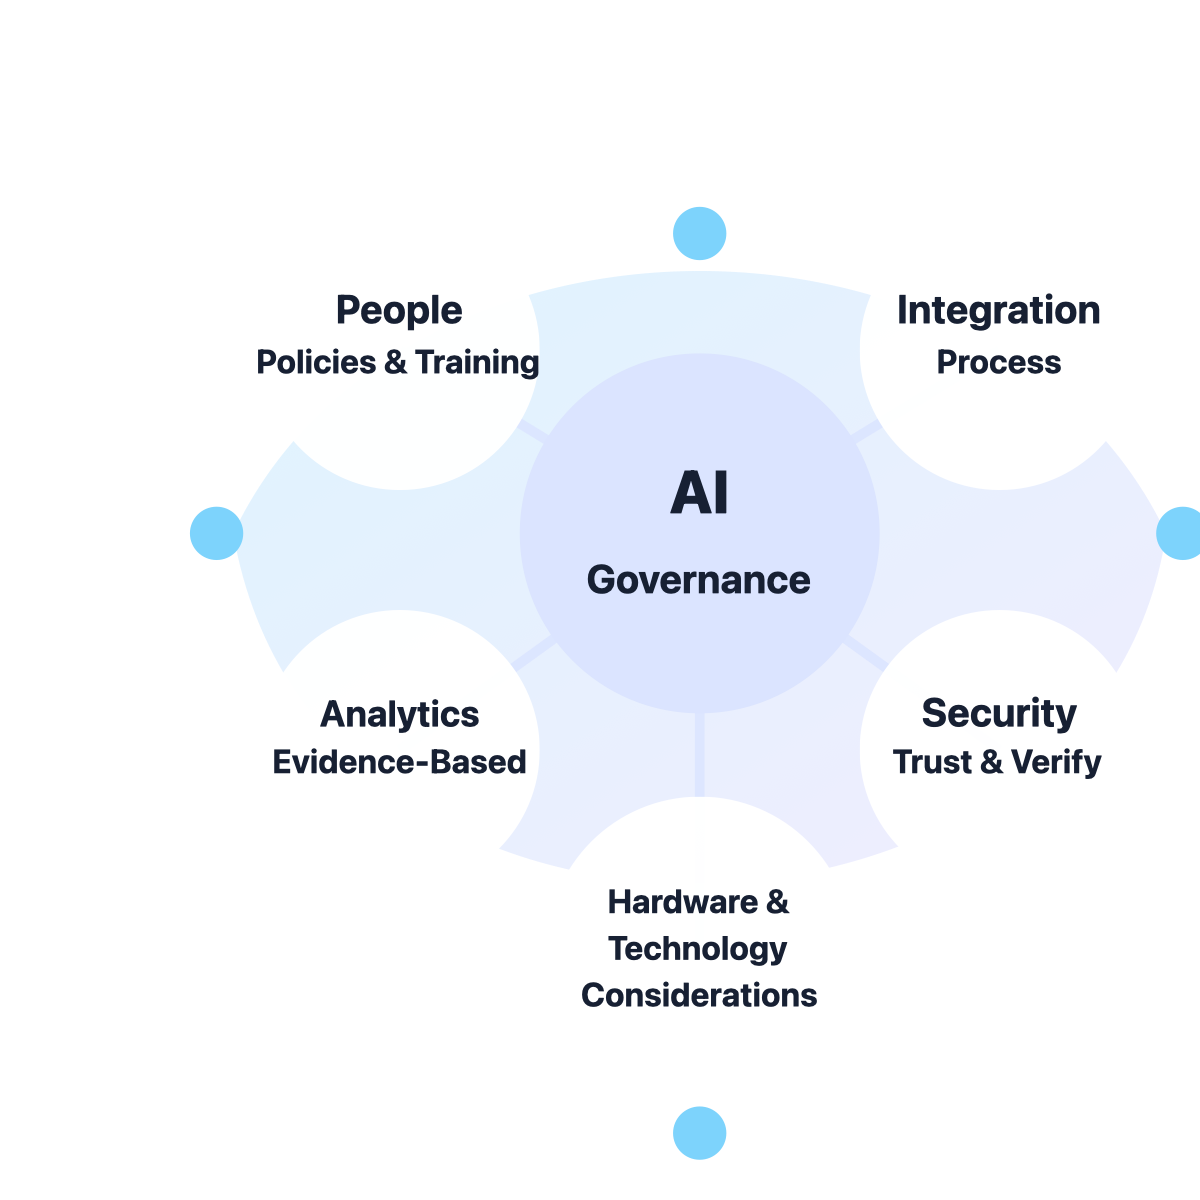
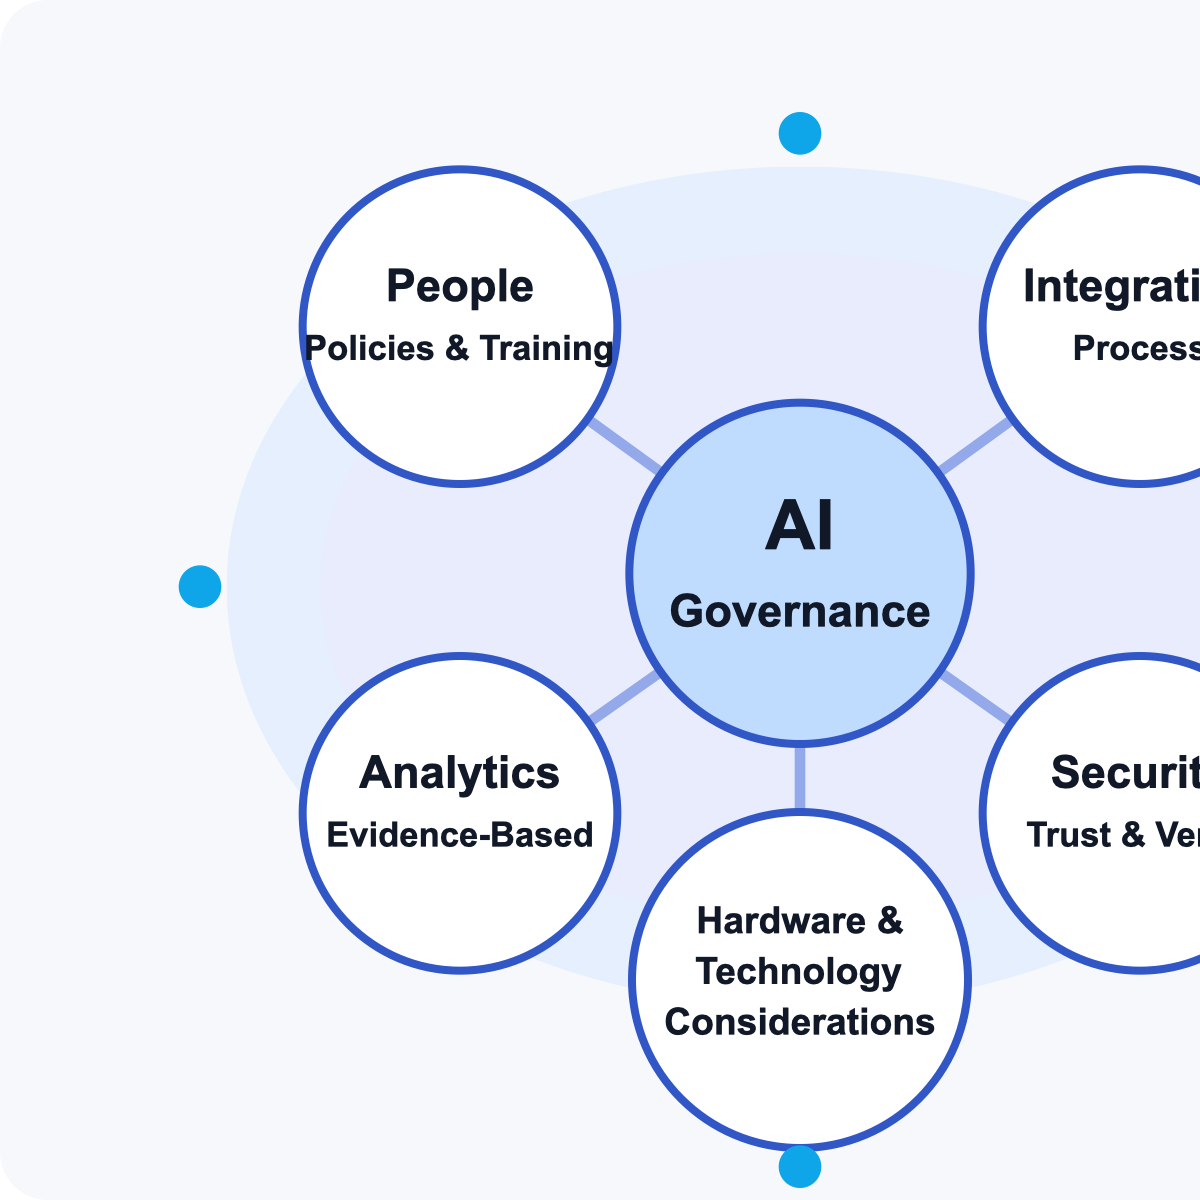
Replace lab graphic with high-contrast version

diff --git a/index.html b/index.html
@@ -54,16 +54,52 @@
         </div>
       </div>
       <div class="hero-art" aria-label="Illustration of people, work, and AI governance connected in a workflow">
-        <svg viewBox="0 0 420 360" role="img" width="100%" height="auto">
-          <defs>
-            <linearGradient id="g" x1="0" y1="0" x2="1" y2="1"><stop stop-color="#7dd3fc"/><stop offset="1" stop-color="#c4b5fd"/></linearGradient>
-          </defs>
-          <path d="M70 160 C120 55, 300 55, 350 160 C330 295, 95 305, 70 160Z" fill="url(#g)" opacity=".25"/>
-          <line class="line" x1="120" y1="105" x2="210" y2="160"/><line class="line" x1="300" y1="105" x2="210" y2="160"/><line class="line" x1="120" y1="225" x2="210" y2="160"/><line class="line" x1="300" y1="225" x2="210" y2="160"/><line class="line" x1="210" y1="285" x2="210" y2="160"/>
-          <circle class="node" cx="120" cy="105" r="42"/><circle class="node" cx="300" cy="105" r="42"/><circle class="node" cx="120" cy="225" r="42"/><circle class="node" cx="300" cy="225" r="42"/><circle class="node" cx="210" cy="285" r="46"/><circle class="node2" cx="210" cy="160" r="54"/>
-          <text x="210" y="154" text-anchor="middle" font-size="18" font-weight="800" fill="#172033">AI</text><text x="210" y="178" text-anchor="middle" font-size="12" font-weight="700" fill="#172033">Governance</text>
-          <text x="120" y="97" text-anchor="middle" font-size="12" font-weight="700" fill="#172033">People</text><text x="120" y="112" text-anchor="middle" font-size="10" font-weight="700" fill="#172033">Policies &amp; Training</text><text x="300" y="97" text-anchor="middle" font-size="12" font-weight="700" fill="#172033">Integration</text><text x="300" y="112" text-anchor="middle" font-size="10" font-weight="700" fill="#172033">Process</text><text x="120" y="218" text-anchor="middle" font-size="11" font-weight="700" fill="#172033">Analytics</text><text x="120" y="232" text-anchor="middle" font-size="10" font-weight="700" fill="#172033">Evidence-Based</text><text x="300" y="218" text-anchor="middle" font-size="12" font-weight="700" fill="#172033">Security</text><text x="300" y="232" text-anchor="middle" font-size="10" font-weight="700" fill="#172033">Trust &amp; Verify</text><text x="210" y="274" text-anchor="middle" font-size="10" font-weight="700" fill="#172033">Hardware &amp;</text><text x="210" y="288" text-anchor="middle" font-size="10" font-weight="700" fill="#172033">Technology</text><text x="210" y="302" text-anchor="middle" font-size="10" font-weight="700" fill="#172033">Considerations</text>
-          <circle class="accent" cx="210" cy="70" r="8"/><circle class="accent" cx="355" cy="160" r="8"/><circle class="accent" cx="210" cy="340" r="8"/><circle class="accent" cx="65" cy="160" r="8"/>
+        <svg viewBox="0 0 1200 900" role="img" width="100%" height="auto">
+          <rect width="1200" height="900" rx="36" fill="#f7f8fb"/>
+          <ellipse cx="600" cy="440" rx="430" ry="315" fill="#dbeafe" opacity="0.65"/>
+          <ellipse cx="600" cy="440" rx="360" ry="250" fill="#ede9fe" opacity="0.55"/>
+        
+          <g stroke="#8aa2e8" stroke-width="8" stroke-linecap="round" opacity="0.9">
+            <line x1="345" y1="245" x2="600" y2="430"/>
+            <line x1="855" y1="245" x2="600" y2="430"/>
+            <line x1="345" y1="610" x2="600" y2="430"/>
+            <line x1="855" y1="610" x2="600" y2="430"/>
+            <line x1="600" y1="735" x2="600" y2="430"/>
+          </g>
+        
+          <g font-family="Arial, Helvetica, sans-serif" text-anchor="middle" fill="#111827">
+            <circle cx="600" cy="430" r="128" fill="#bfdbfe" stroke="#3157c7" stroke-width="6"/>
+            <text x="600" y="412" font-size="52" font-weight="800">AI</text>
+            <text x="600" y="470" font-size="34" font-weight="800">Governance</text>
+        
+            <circle cx="345" cy="245" r="118" fill="#ffffff" stroke="#3157c7" stroke-width="6"/>
+            <text x="345" y="226" font-size="34" font-weight="800">People</text>
+            <text x="345" y="270" font-size="26" font-weight="800">Policies &amp; Training</text>
+        
+            <circle cx="855" cy="245" r="118" fill="#ffffff" stroke="#3157c7" stroke-width="6"/>
+            <text x="855" y="226" font-size="34" font-weight="800">Integration</text>
+            <text x="855" y="270" font-size="26" font-weight="800">Process</text>
+        
+            <circle cx="345" cy="610" r="118" fill="#ffffff" stroke="#3157c7" stroke-width="6"/>
+            <text x="345" y="591" font-size="34" font-weight="800">Analytics</text>
+            <text x="345" y="635" font-size="26" font-weight="800">Evidence-Based</text>
+        
+            <circle cx="855" cy="610" r="118" fill="#ffffff" stroke="#3157c7" stroke-width="6"/>
+            <text x="855" y="591" font-size="34" font-weight="800">Security</text>
+            <text x="855" y="635" font-size="26" font-weight="800">Trust &amp; Verify</text>
+        
+            <circle cx="600" cy="735" r="126" fill="#ffffff" stroke="#3157c7" stroke-width="6"/>
+            <text x="600" y="700" font-size="28" font-weight="800">Hardware &amp;</text>
+            <text x="600" y="738" font-size="28" font-weight="800">Technology</text>
+            <text x="600" y="776" font-size="28" font-weight="800">Considerations</text>
+          </g>
+        
+          <g fill="#0ea5e9">
+            <circle cx="600" cy="100" r="16"/>
+            <circle cx="1050" cy="440" r="16"/>
+            <circle cx="600" cy="875" r="16"/>
+            <circle cx="150" cy="440" r="16"/>
+          </g>
         </svg>
       </div>
     </div>